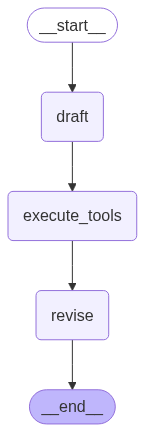
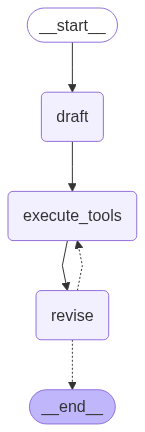
Reflexion Agent: Modify the graph image

Changed region(s): [[0.4138, 0.5417, 0.5793, 0.6921], [0.4966, 0.7824, 0.5241, 0.8727]]

diff --git a/reflexion-agent/main.py b/reflexion-agent/main.py
@@ -23,11 +23,19 @@ def event_loop(state: List[BaseMessage]) -> str:
     return "execute_tools"
 
 
-builder.add_conditional_edges("revise", event_loop)
+builder.add_conditional_edges(
+    "revise",
+    event_loop,
+    {
+        "execute_tools": "execute_tools",
+        END: END,
+    },
+)
 builder.set_entry_point("draft")
 graph = builder.compile()
 
 print(graph.get_graph().draw_mermaid())
+graph.get_graph().draw_mermaid_png(output_file_path="graph.png")
 
 if __name__ == "__main__":
     res = graph.invoke(
